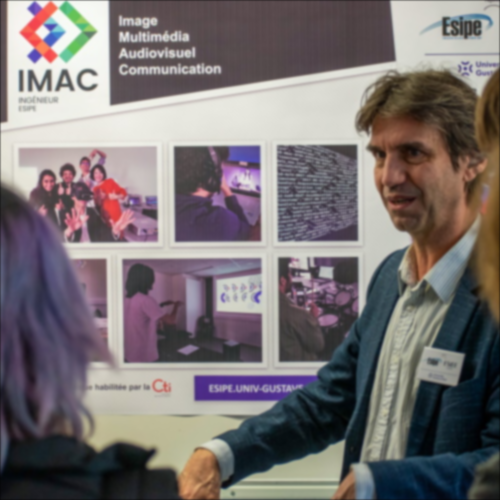
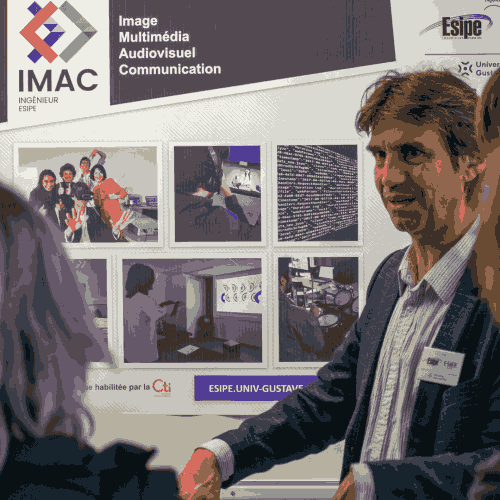
jour 2 - AM

diff --git a/src/color_effects.cpp b/src/color_effects.cpp
@@ -568,4 +568,167 @@ namespace Effects
         image = result;
     }
 
+    void gaussian_blur(sil::Image &image, float sigma)
+    {
+        int kernel_radius = static_cast<int>(std::ceil(3 * sigma));
+        int kernel_size = 2 * kernel_radius + 1;
+        std::vector<std::vector<float>> kernel(kernel_size, std::vector<float>(kernel_size));
+
+        float sum = 0.0f;
+        for (int i = -kernel_radius; i <= kernel_radius; ++i)
+        {
+            for (int j = -kernel_radius; j <= kernel_radius; ++j)
+            {
+                float value = std::exp(-(i * i + j * j) / (2 * sigma * sigma)) / (2 * M_PI * sigma * sigma);
+                kernel[i + kernel_radius][j + kernel_radius] = value;
+                sum += value;
+            }
+        }
+
+        for (int i = 0; i < kernel_size; ++i)
+        {
+            for (int j = 0; j < kernel_size; ++j)
+            {
+                kernel[i][j] /= sum;
+            }
+        }
+
+        convolution(image, kernel);
+    }
+
+    void gaussian_difference(sil::Image &image, float sigma)
+    {
+        sil::Image original = image;
+        gaussian_blur(image, sigma);
+        for (int x = 0; x < image.width(); ++x)
+        {
+            for (int y = 0; y < image.height(); ++y)
+            {
+                image.pixel(x, y).r = original.pixel(x, y).r - image.pixel(x, y).r;
+                image.pixel(x, y).g = original.pixel(x, y).g - image.pixel(x, y).g;
+                image.pixel(x, y).b = original.pixel(x, y).b - image.pixel(x, y).b;
+            }
+        }
+    }
+
+    void k_means_clustering(sil::Image &image, int k)
+    {
+        std::vector<glm::vec3> centroids(k);
+        std::vector<int> labels(image.width() * image.height(), 0);
+        std::vector<int> counts(k, 0);
+        std::vector<glm::vec3> sums(k, glm::vec3(0.0f));
+        for (int i = 0; i < k; ++i)
+        {
+            int x = random_int(0, image.width() - 1);
+            int y = random_int(0, image.height() - 1);
+            centroids[i] = image.pixel(x, y);
+        }
+        bool changed = true;
+        while (changed)
+        {
+            changed = false;
+            for (int x = 0; x < image.width(); ++x)
+            {
+                for (int y = 0; y < image.height(); ++y)
+                {
+                    glm::vec3 color = image.pixel(x, y);
+                    float min_distance = std::numeric_limits<float>::max();
+                    int best_centroid = 0;
+                    for (int i = 0; i < k; ++i)
+                    {
+                        float distance = glm::distance(color, centroids[i]);
+                        if (distance < min_distance)
+                        {
+                            min_distance = distance;
+                            best_centroid = i;
+                        }
+                    }
+                    if (labels[y * image.width() + x] != best_centroid)
+                    {
+                        labels[y * image.width() + x] = best_centroid;
+                        changed = true;
+                    }
+                }
+            }
+            std::fill(counts.begin(), counts.end(), 0);
+            std::fill(sums.begin(), sums.end(), glm::vec3(0.0f));
+            for (int x = 0; x < image.width(); ++x)
+            {
+                for (int y = 0; y < image.height(); ++y)
+                {
+                    int label = labels[y * image.width() + x];
+                    sums[label] += image.pixel(x, y);
+                    counts[label]++;
+                }
+            }
+            for (int i = 0; i < k; ++i)
+            {
+                if (counts[i] > 0)
+                {
+                    centroids[i] = sums[i] / static_cast<float>(counts[i]);
+                }
+            }
+        }
+        for (int x = 0; x < image.width(); ++x)
+        {
+            for (int y = 0; y < image.height(); ++y)
+            {
+                int label = labels[y * image.width() + x];
+                image.pixel(x, y) = centroids[label];
+            }
+        }
+    }
+
+    void kuwahara_filter(sil::Image &image, int radius)
+    {
+        sil::Image result = image;
+
+        for (int x = 0; x < image.width(); ++x)
+        {
+            for (int y = 0; y < image.height(); ++y)
+            {
+                float min_variance = std::numeric_limits<float>::max();
+                glm::vec3 best_color{0.0f};
+
+                for (int dx = -radius; dx <= radius; dx += radius)
+                {
+                    for (int dy = -radius; dy <= radius; dy += radius)
+                    {
+                        glm::vec3 sum{0.0f};
+                        glm::vec3 sum_sq{0.0f};
+                        int count = 0;
+
+                        for (int i = 0; i <= radius; ++i)
+                        {
+                            for (int j = 0; j <= radius; ++j)
+                            {
+                                int nx = std::clamp(x + dx + i, 0, image.width() - 1);
+                                int ny = std::clamp(y + dy + j, 0, image.height() - 1);
+
+                                glm::vec3 color = image.pixel(nx, ny);
+                                sum += color;
+                                sum_sq += color * color;
+                                ++count;
+                            }
+                        }
+
+                        glm::vec3 mean = sum / static_cast<float>(count);
+                        glm::vec3 variance = (sum_sq / static_cast<float>(count)) - (mean * mean);
+                        float variance_sum = variance.r + variance.g + variance.b;
+
+                        if (variance_sum < min_variance)
+                        {
+                            min_variance = variance_sum;
+                            best_color = mean;
+                        }
+                    }
+                }
+
+                result.pixel(x, y) = best_color;
+            }
+        }
+
+        image = result;
+    }
+
 }

diff --git a/src/main.cpp b/src/main.cpp
@@ -40,16 +40,12 @@ int main()
         { 0, -1,  0}
     };
 
-    std::vector<std::vector<float>> gaussian = {
-        {1 / 273.0f,  4 / 273.0f,  7 / 273.0f,  4 / 273.0f, 1 / 273.0f},
-        {4 / 273.0f, 16 / 273.0f, 26 / 273.0f, 16 / 273.0f, 4 / 273.0f},
-        {7 / 273.0f, 26 / 273.0f, 41 / 273.0f, 26 / 273.0f, 7 / 273.0f},
-        {4 / 273.0f, 16 / 273.0f, 26 / 273.0f, 16 / 273.0f, 4 / 273.0f},
-        {1 / 273.0f,  4 / 273.0f,  7 / 273.0f,  4 / 273.0f, 1 / 273.0f}
-    };
-    
-    Effects::convolution(image, gaussian);
-    
+    // Effects::convolution(image, sharpen);
+
+    // Effects::gaussian_blur(image,3.f);
+    // Effects::gaussian_difference(image,5.5f);    
+
+    Effects::k_means_clustering(image, 16);
     image.save("output/pouet.png");
 }
 

diff --git a/src/color_effects.hpp b/src/color_effects.hpp
@@ -32,7 +32,10 @@ void dithering(sil::Image &image);
 void contrast_stretching(sil::Image &image);
 void vortex(sil::Image &image, float strength);
 void convolution(sil::Image &image, const std::vector<std::vector<float>> &kernel);
-
+void gaussian_blur(sil::Image &image, float sigma);
+void gaussian_difference(sil::Image &image,float sigma );
+void k_means_clustering(sil::Image &image, int k);
+void kuwahara_filter(sil::Image &image, int radius);
 
 } 
 
